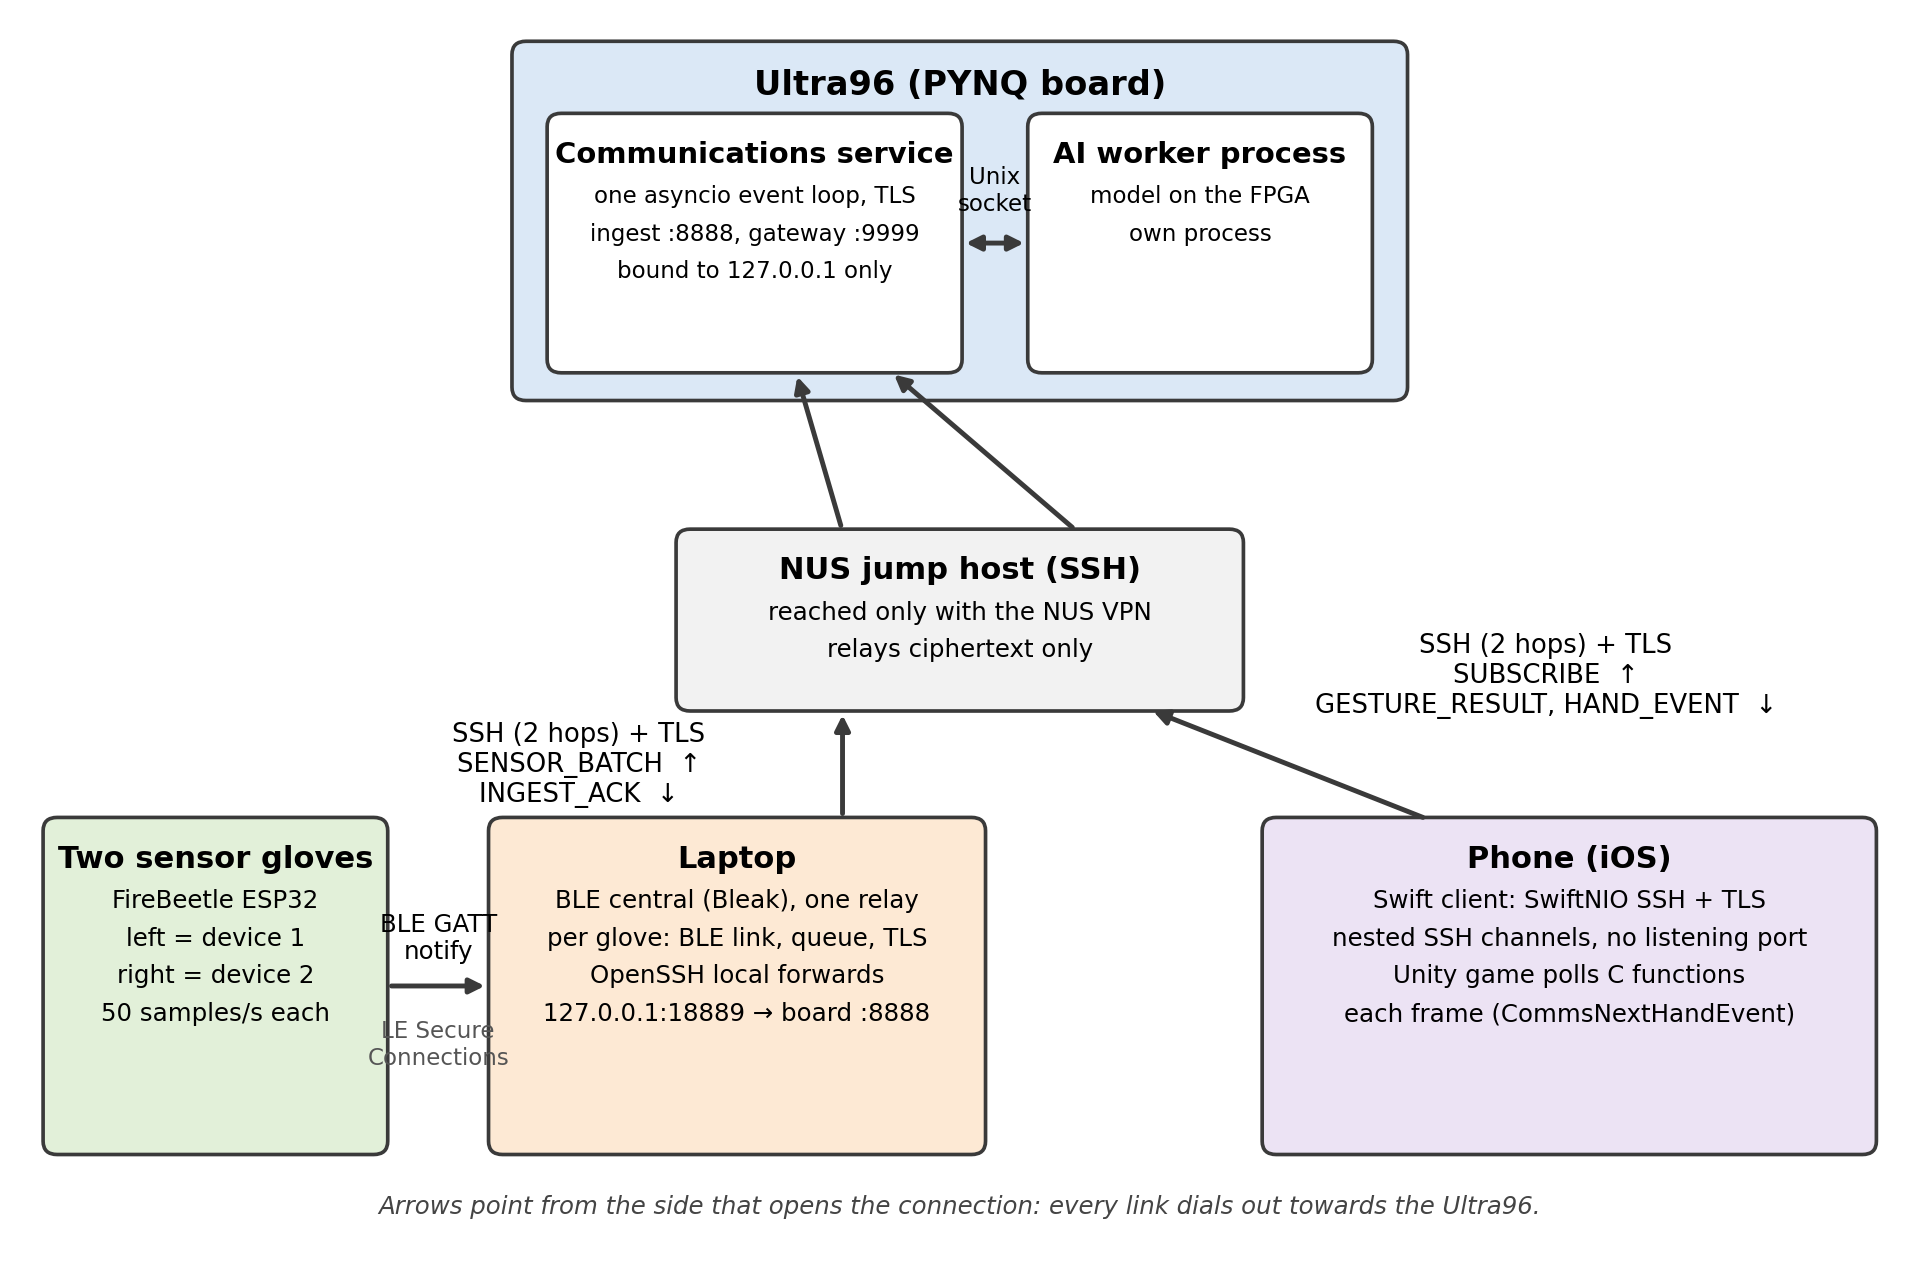
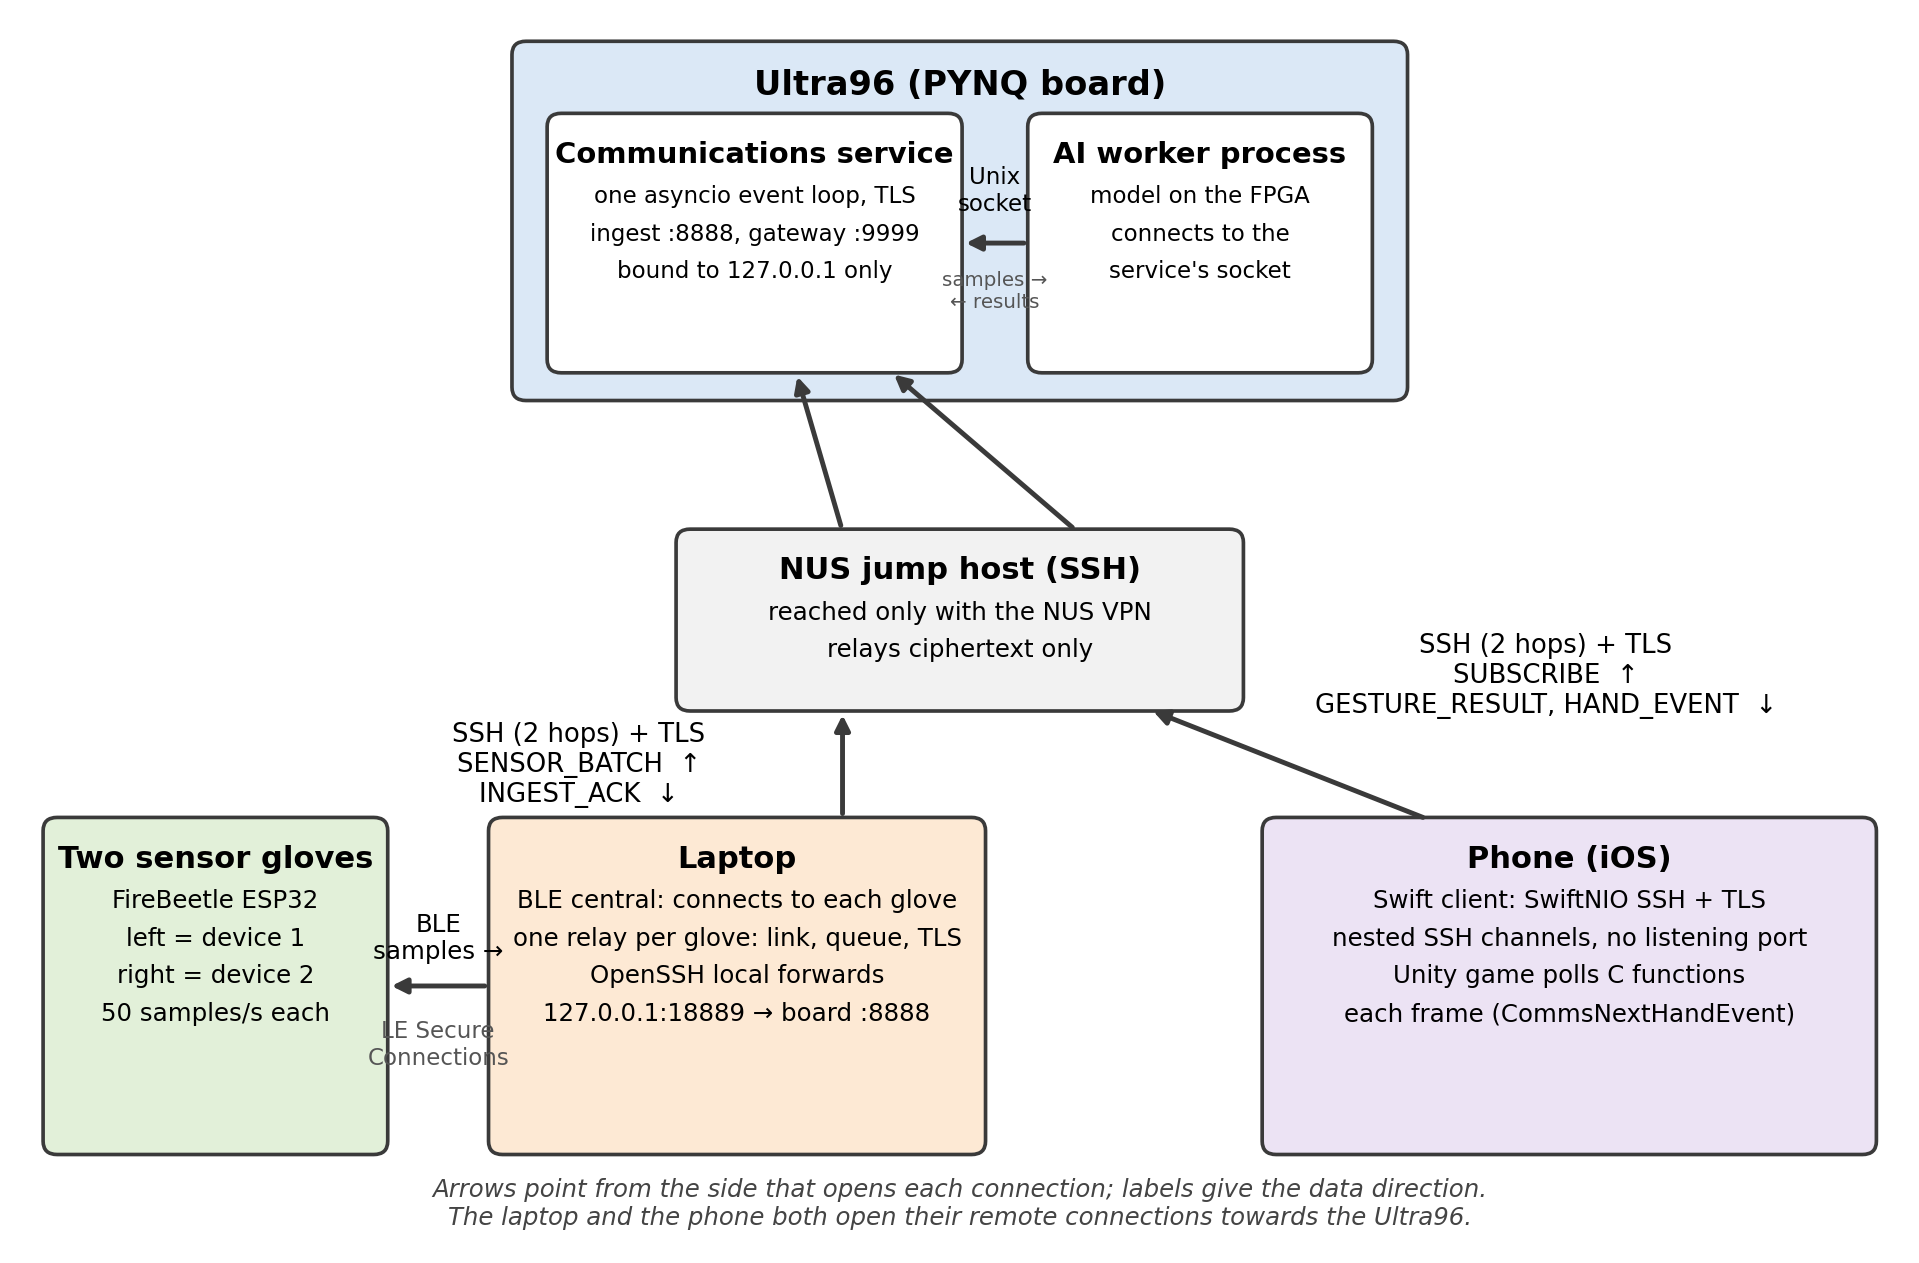
Report figures: arrows show who opens each connection, data direction labelled; GESTURE_RESULT and HAND_EVENT checks drawn separately

diff --git a/docs/report-figures/make_figures.py b/docs/report-figures/make_figures.py
@@ -25,18 +25,19 @@ ax.set_xlim(0, 16); ax.set_ylim(-0.5, 10.5); ax.axis("off")
 
 box(ax, 4.2, 7.1, 7.6, 3.2, "Ultra96 (PYNQ board)", fc=BLUE, fs=11)
 box(ax, 4.5, 7.35, 3.5, 2.3, "Communications service", ["one asyncio event loop, TLS", "ingest :8888, gateway :9999", "bound to 127.0.0.1 only"], fc="white", fs=9.5)
-box(ax, 8.6, 7.35, 2.9, 2.3, "AI worker process", ["model on the FPGA", "own process", ""], fc="white", fs=9.5)
-arrow(ax, 8.0, 8.5, 8.6, 8.5, both=True)
+box(ax, 8.6, 7.35, 2.9, 2.3, "AI worker process", ["model on the FPGA", "connects to the", "service's socket"], fc="white", fs=9.5)
+arrow(ax, 8.6, 8.5, 8.0, 8.5)
+ax.text(8.3, 8.25, "samples →"+chr(10)+"← results", ha="center", va="top", fontsize=6.5, color="#555")
 ax.text(8.3, 8.75, "Unix\nsocket", ha="center", va="bottom", fontsize=7.5)
 
 box(ax, 5.6, 4.3, 4.8, 1.6, "NUS jump host (SSH)", ["reached only with the NUS VPN", "relays ciphertext only"], fc=GREY, fs=10)
 
 box(ax, 0.2, 0.3, 2.9, 3.0, "Two sensor gloves", ["FireBeetle ESP32", "left = device 1", "right = device 2", "50 samples/s each"], fc=GREEN, fs=10)
-box(ax, 4.0, 0.3, 4.2, 3.0, "Laptop", ["BLE central (Bleak), one relay", "per glove: BLE link, queue, TLS", "OpenSSH local forwards", "127.0.0.1:18889 → board :8888"], fc=ORANGE, fs=10)
+box(ax, 4.0, 0.3, 4.2, 3.0, "Laptop", ["BLE central: connects to each glove", "one relay per glove: link, queue, TLS", "OpenSSH local forwards", "127.0.0.1:18889 → board :8888"], fc=ORANGE, fs=10)
 box(ax, 10.6, 0.3, 5.2, 3.0, "Phone (iOS)", ["Swift client: SwiftNIO SSH + TLS", "nested SSH channels, no listening port", "Unity game polls C functions", "each frame (CommsNextHandEvent)"], fc=PURPLE, fs=10)
 
-arrow(ax, 3.1, 1.8, 4.0, 1.8)
-ax.text(3.55, 2.0, "BLE GATT\nnotify", ha="center", va="bottom", fontsize=8)
+arrow(ax, 4.0, 1.8, 3.1, 1.8)
+ax.text(3.55, 2.0, "BLE"+chr(10)+"samples →", ha="center", va="bottom", fontsize=8)
 ax.text(3.55, 1.5, "LE Secure\nConnections", ha="center", va="top", fontsize=7.5, color="#555")
 
 arrow(ax, 7.0, 3.3, 7.0, 4.3); arrow(ax, 7.0, 5.9, 6.6, 7.35)
@@ -44,20 +45,20 @@ ax.text(4.75, 3.8, "SSH (2 hops) + TLS\nSENSOR_BATCH  ↑\nINGEST_ACK  ↓", ha=
 arrow(ax, 12.0, 3.3, 9.6, 4.3); arrow(ax, 9.0, 5.9, 7.4, 7.35)
 ax.text(13.0, 4.6, "SSH (2 hops) + TLS\nSUBSCRIBE  ↑\nGESTURE_RESULT, HAND_EVENT  ↓", ha="center", va="center", fontsize=8.5)
 
-ax.text(8.0, -0.25, "Arrows point from the side that opens the connection: every link dials out towards the Ultra96.",
+ax.text(8.0, -0.35, "Arrows point from the side that opens each connection; labels give the data direction."+chr(10)+"The laptop and the phone both open their remote connections towards the Ultra96.",
         ha="center", fontsize=8, style="italic", color="#444")
 fig.savefig(r"D:\LetThemCook\docs\report-figures\fig7a-comms-architecture.png", dpi=220, bbox_inches="tight")
 
 # Figure 7b: one sample, end to end
 lanes = ["Glove", "Laptop relay", "Ultra96 service", "AI worker (FPGA)", "Phone / Unity"]
 xs = [0.9, 3.9, 7.1, 10.3, 13.5]
-fig, ax = plt.subplots(figsize=(11, 7.0))
-ax.set_xlim(-0.4, 15.0); ax.set_ylim(-0.1, 10.6); ax.axis("off")
+fig, ax = plt.subplots(figsize=(11, 7.6))
+ax.set_xlim(-0.4, 15.4); ax.set_ylim(-1.0, 10.6); ax.axis("off")
 cols = [GREEN, ORANGE, BLUE, BLUE, PURPLE]
 for x, name, c in zip(xs, lanes, cols):
     ax.add_patch(FancyBboxPatch((x - 1.25, 9.6), 2.5, 0.7, boxstyle="round,pad=0.02", fc=c, ec=EDGE))
     ax.text(x, 9.95, name, ha="center", va="center", fontsize=9.5, weight="bold")
-    ax.plot([x, x], [1.1, 9.6], color="#999", lw=1, ls="--")
+    ax.plot([x, x], [0.0, 9.6], color="#999", lw=1, ls="--")
 
 def msg(y, a, b, text, dashed=False):
     arrow(ax, xs[a], y, xs[b], y, ls="--" if dashed else "-")
@@ -73,11 +74,13 @@ msg(7.6, 1, 2, "SENSOR_BATCH (device_id, boot_id, seq)")
 msg(6.8, 2, 3, "sample line (nonblocking enqueue)")
 msg(6.0, 2, 1, "INGEST_ACK accepted / duplicate")
 note(5.35, 2, "ACK = accepted by the service,\nnot processed by the AI")
-msg(4.3, 3, 2, "prediction / hand event (asynchronous)", dashed=True)
-note(3.6, 2, "checked: known glove and boot,\nseq ≤ highest accepted, new ID")
-msg(2.7, 2, 4, "GESTURE_RESULT / HAND_EVENT")
-note(1.9, 4, "Unity takes each entry\nonce per frame poll")
-ax.text(7.3, 0.55, "The (device_id, boot_id, seq) triple names the sample on every hop; the ACK path and the result path are independent.",
+msg(4.55, 3, 2, "prediction → GESTURE_RESULT", dashed=True)
+note(3.95, 2, "GESTURE_RESULT check: known glove and boot,"+chr(10)+"seq ≤ highest accepted, new result ID")
+msg(3.0, 3, 2, "HAND_EVENT", dashed=True)
+note(2.3, 2, "HAND_EVENT check: worker epoch, exact source"+chr(10)+"sample, prediction source ≤ 0.5 s old,"+chr(10)+"rising event_seq, state lease and transitions")
+msg(1.35, 2, 4, "GESTURE_RESULT / HAND_EVENT")
+note(0.6, 4, "phone drops repeated result IDs and"+chr(10)+"repeated or out-of-order events;"+chr(10)+"expires states without refresh")
+ax.text(7.3, -0.55, "The (device_id, boot_id, seq) triple names the sample on every hop; the ACK path and the result path are independent;"+chr(10)+"dashed arrows are asynchronous.",
         ha="center", fontsize=8, style="italic", color="#444")
 fig.savefig(r"D:\LetThemCook\docs\report-figures\fig7b-sample-sequence.png", dpi=220, bbox_inches="tight")
 print("ok")
